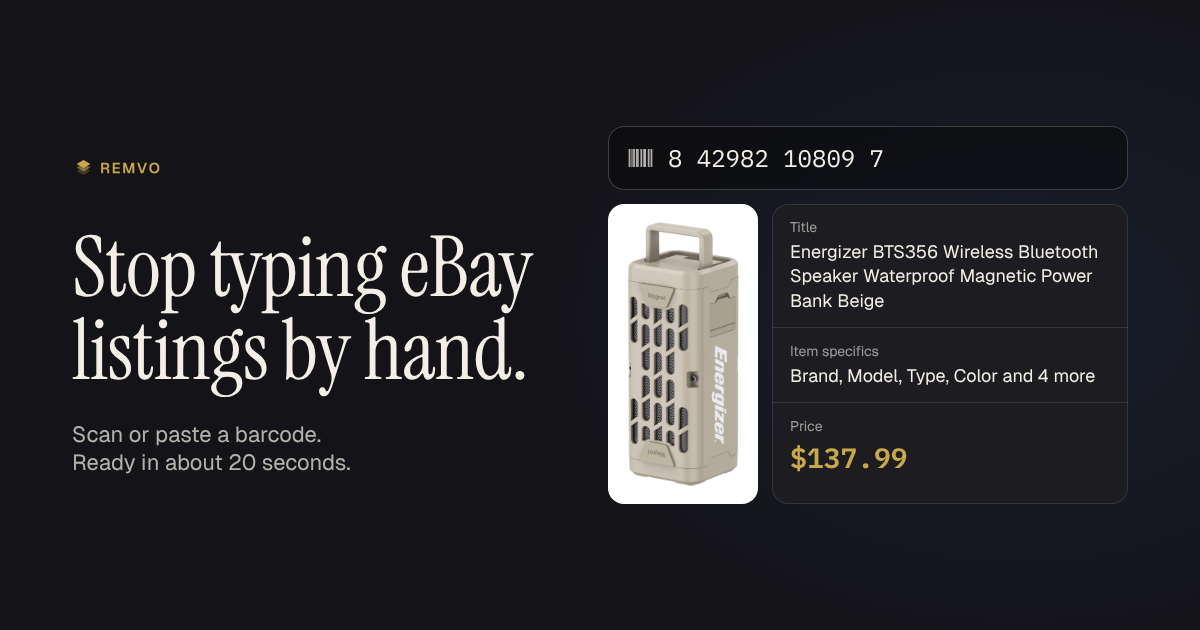
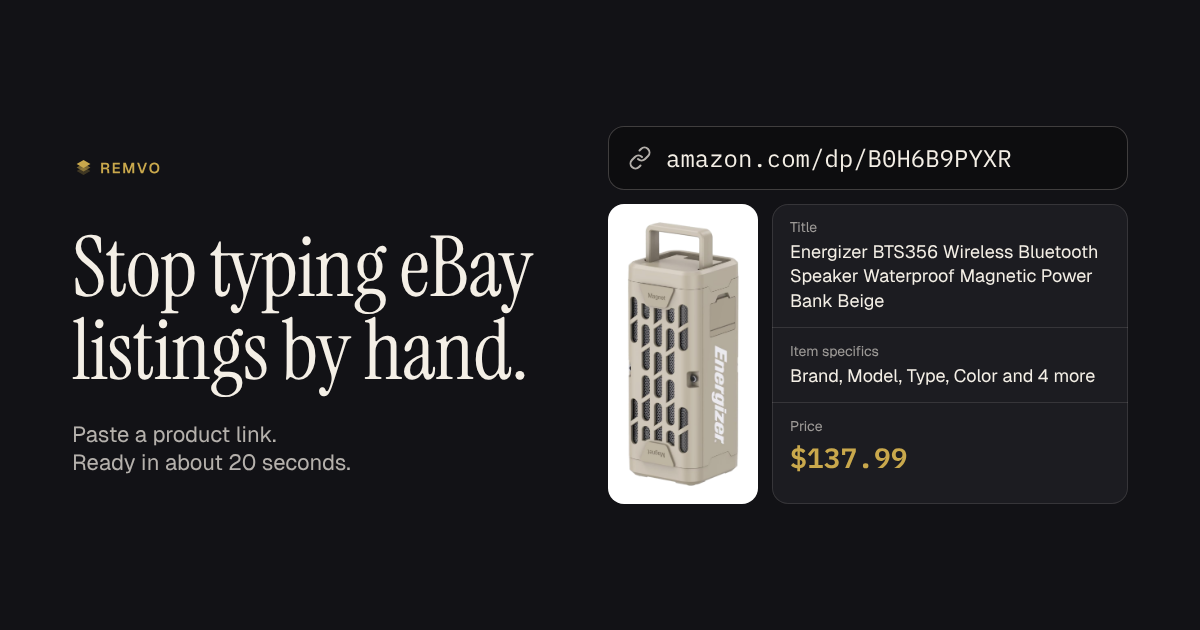
copy3: eBay listings, done for you; a finished listing; link-first share image

Changed region(s): [[0.0617, 0.6635, 0.2775, 0.7238], [0.5242, 0.2111, 0.8633, 0.2714]]

diff --git a/index.html b/index.html
@@ -7,9 +7,9 @@
 
   <!-- seo:start: each marketing page's own head goes here at build (prerender/run.mjs) -->
   <!-- ── SEO ── -->
-  <title>Remvo | eBay listings from a barcode in 20 seconds</title>
+  <title>Remvo | eBay listings done for you in 20 seconds</title>
   <meta name="description"
-    content="Stop typing eBay listings by hand. Scan or paste a barcode and get the title, description, category, item specifics, parcel and a price. $0.30 a listing." />
+    content="Stop typing eBay listings by hand. Paste a product link or a barcode: title, description, category, item specifics, parcel and price. $0.30 a finished listing." />
   <meta name="author" content="Remvo Labs Limited" />
 
   <!-- ── Open Graph ── -->
@@ -18,9 +18,9 @@
   <meta property="og:image:height" content="630" />
   <meta property="og:image:alt" content="Stop typing eBay listings by hand. A real Remvo listing for an Energizer speaker, $137.99." />
   <meta property="og:type" content="website" />
-  <meta property="og:title" content="Remvo | eBay listings from a barcode in 20 seconds" />
+  <meta property="og:title" content="Remvo | eBay listings done for you in 20 seconds" />
   <meta property="og:description"
-    content="Stop typing eBay listings by hand. Scan or paste a barcode and get the title, description, category, item specifics, parcel and a price. $0.30 a listing." />
+    content="Stop typing eBay listings by hand. Paste a product link or a barcode: title, description, category, item specifics, parcel and price. $0.30 a finished listing." />
   <meta property="og:url" content="https://remvo.app" />
   <meta property="og:site_name" content="Remvo" />
   <meta property="og:locale" content="en_GB" />
@@ -28,9 +28,9 @@
   <!-- ── Twitter / X ── -->
   <meta name="twitter:card" content="summary_large_image" />
   <meta name="twitter:image" content="https://remvo.app/og-remvo-1200x630.png" />
-  <meta name="twitter:title" content="Remvo | eBay listings from a barcode in 20 seconds" />
+  <meta name="twitter:title" content="Remvo | eBay listings done for you in 20 seconds" />
   <meta name="twitter:description"
-    content="Stop typing eBay listings by hand. Scan or paste a barcode and get the title, description, category, item specifics, parcel and a price. $0.30 a listing." />
+    content="Stop typing eBay listings by hand. Paste a product link or a barcode: title, description, category, item specifics, parcel and price. $0.30 a finished listing." />
   <!-- seo:end -->
 
   <!-- ── Favicon: light mode (default) ── -->

diff --git a/src/components/layout/marketing/Footer.jsx b/src/components/layout/marketing/Footer.jsx
@@ -7,7 +7,7 @@ import styles from '@styles/layout/marketing/footer.module.css';
 /* ──────────────────────────────────────────────────────────────────
  * Marketing footer (social1, redrawn)
  *
- *   REMVO  eBay listings from a barcode.          [stamp][stamp][stamp]
+ *   REMVO  eBay listings, done for you.           [stamp][stamp][stamp]
  *          Made in Lagos for sellers everywhere.     postmarked LAGOS
  *   ─────────────────────────────────────────────────────────────────
  *   Product        Learn             Company            Legal
@@ -93,7 +93,7 @@ export function Footer() {
         <div className={styles.top}>
           <div className={styles.signoff}>
             <Logo variant="gold" size="default" />
-            <p className={styles.line}>eBay listings from a barcode.</p>
+            <p className={styles.line}>eBay listings, done for you.</p>
             <p className={styles.lineSub}>Made in Lagos, for sellers everywhere.</p>
           </div>
 

diff --git a/src/lib/seo.js b/src/lib/seo.js
@@ -21,8 +21,8 @@ export const OG_IMAGE = `${SITE_ORIGIN}/og-remvo-1200x630.png`;
 
 export const PAGES = Object.freeze({
   [ROUTES.HOME]: {
-    title: 'Remvo | eBay listings from a barcode in 20 seconds',
-    description: 'Stop typing eBay listings by hand. Scan or paste a barcode and get the title, description, category, item specifics, parcel and a price. $0.30 a listing.',
+    title: 'Remvo | eBay listings done for you in 20 seconds',
+    description: 'Stop typing eBay listings by hand. Paste a product link or a barcode: title, description, category, item specifics, parcel and price. $0.30 a finished listing.',
   },
   [ROUTES.HOW]: {
     title: 'How it works | Remvo',
@@ -68,7 +68,7 @@ export const PAGES = Object.freeze({
   }])),
   [ROUTES.PRICING]: {
     title: 'Pricing | Remvo',
-    description: '$0.30 a listing with prepaid credits. No subscription. Your first listing is on us, and a listing that fails gives its credits back.',
+    description: '$0.30 a finished listing with prepaid credits. No subscription. Your first listing is on us, and a listing that fails gives its credits back.',
   },
   [ROUTES.CONTACT]: {
     title: 'Contact | Remvo',

diff --git a/src/pages/home/sections/HomeHero.jsx b/src/pages/home/sections/HomeHero.jsx
@@ -22,7 +22,7 @@ export function HomeHero() {
             Stop typing eBay listings by hand.
           </h1>
           <p className={styles.heroSub}>
-            Scan or paste a barcode, or paste a product link. The title, description, category, item
+            Paste a product link, or scan or paste a barcode. The title, description, category, item
             specifics, parcel and a price from live {site.site} listings come back in about 20 seconds.
           </p>
           <p className={styles.heroFit}>
@@ -51,7 +51,7 @@ export function HomeHero() {
       <div className={styles.trustBar}>
         <dl className={styles.trustBarInner}>
           <div className={styles.trustItem}>
-            <dt className={styles.trustLabel}>A listing</dt>
+            <dt className={styles.trustLabel}>A finished listing</dt>
             <dd className={`${styles.trustValue} ${styles.trustMoney}`}>{perListing}</dd>
           </div>
           <div className={styles.trustItem}>

diff --git a/src/app/entry-server.jsx b/src/app/entry-server.jsx
@@ -71,7 +71,7 @@ export function structuredData(path) {
       '@context': 'https://schema.org',
       '@type': 'Product',
       name: 'Remvo listing credits',
-      description: `Prepaid credits for Remvo, software that prepares eBay listings from a barcode. A listing uses ${PRICING.JOBS.LISTING.credits} credits.`,
+      description: `Prepaid credits for Remvo, software that prepares eBay listings from a product link or a barcode. A listing uses ${PRICING.JOBS.LISTING.credits} credits.`,
       image: OG_IMAGE,
       brand: { '@type': 'Brand', name: BRAND.NAME },
       offers: PRICING.PACKS.map((p) => ({

diff --git a/src/pages/home/sections/HomePricing.jsx b/src/pages/home/sections/HomePricing.jsx
@@ -13,7 +13,7 @@ export function HomePricing() {
     <section className={styles.pricing} aria-labelledby="pricing-heading">
       <div className={styles.inner}>
         <h2 id="pricing-heading" className={styles.h2}>
-          <span className={styles.money}>{each}</span> a listing. Pay only for what you list.
+          <span className={styles.money}>{each}</span> a finished listing. Pay only for what you list.
         </h2>
         <p className={styles.lede}>
           A listing uses {listing.credits} credits. A listing that fails gives its credits back on its own, and
